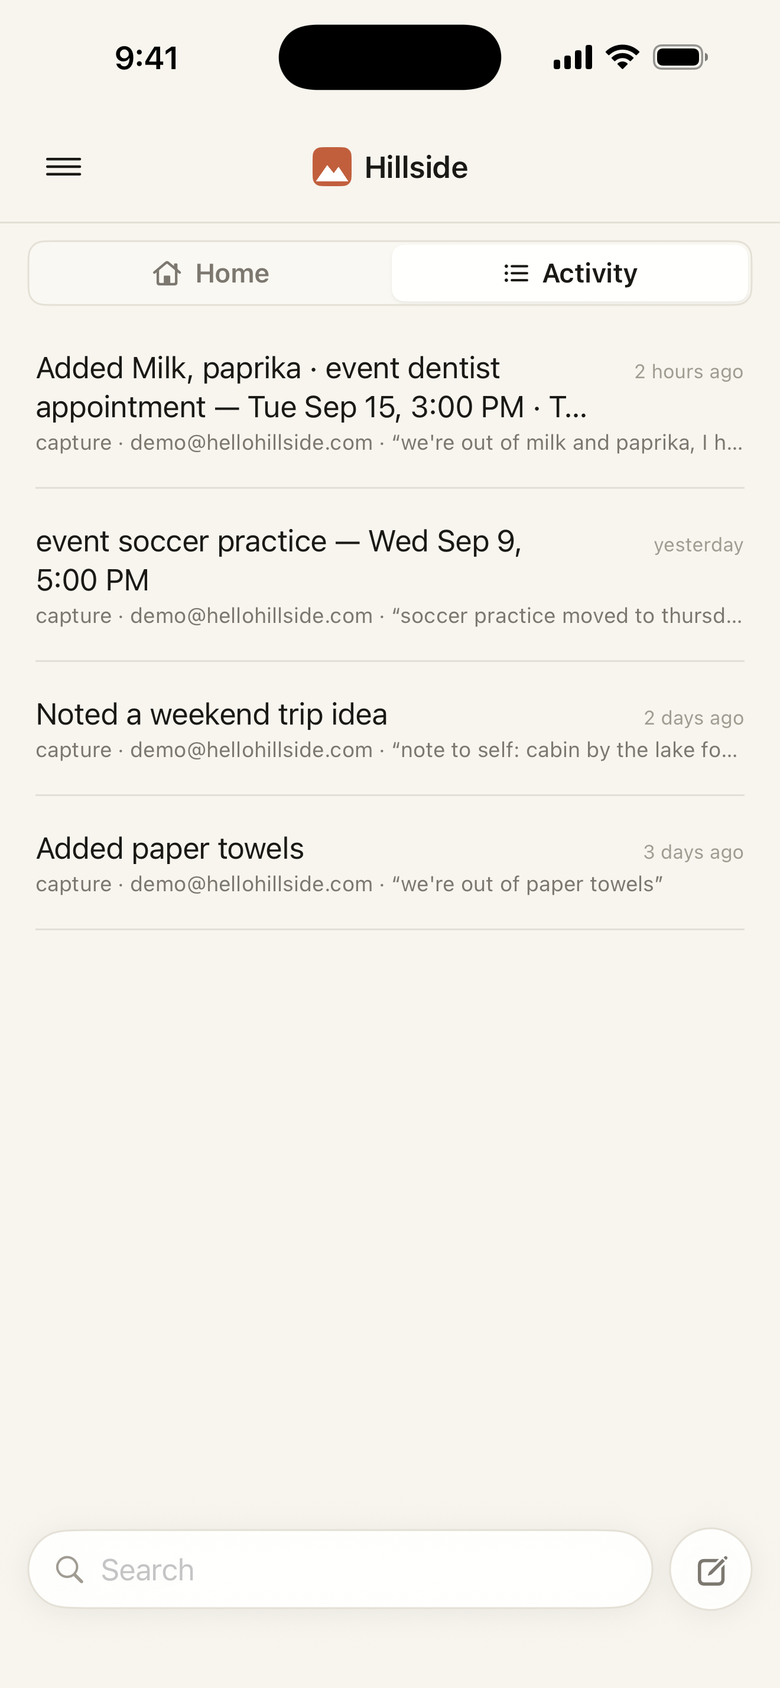
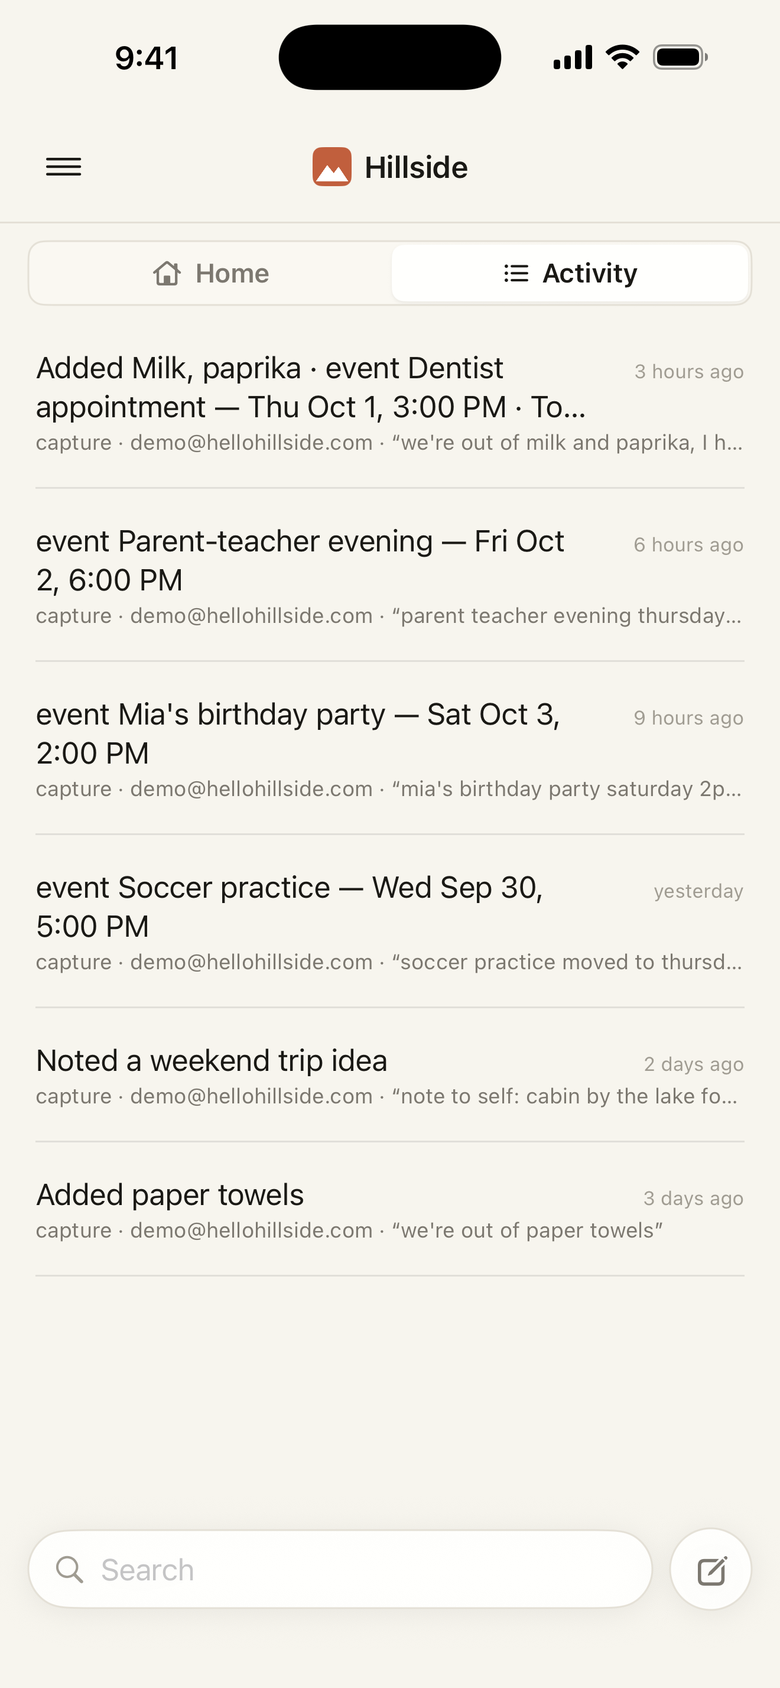
Reshoot for 1.3.3, and split one tile into three (#41)
The app's navigation changed under these shots. #119 split To-dos and Notes into
separate drawer entries and dropped the toggle between them, so `notes-todos.png`
showed a screen that no longer exists. Events became a destination of its own and
had never been photographed at all.

So that one tile is now three — To-dos, Notes, Events — and the gallery is ten.

Home is reshot for the Today card (#118): the next three days with to-dos and
events interleaved in time order, paged by day. It is the clearest thing the app
has gained since the last set, and the old Home shot predates it entirely.

All ten on **iOS 26.1 / iPhone 17 Pro Max**, 1.3.3 (6), against a demo reset from
clean main — 1320x2868 downscaled to the 780x1688 the markup already declares.

Three demo-data repairs were needed first, each of which would have shown:

- The dentist event read **Thu Oct 1** on Home and **Wed Oct 7** in Activity. The
  structured `parsed` envelope (migration 0051) is what the UI reads now, and
  `reanchor.sql` predates it — it shifts the label and the calendar URL but not
  `parsed`, so the two drift apart on every reset.
- Soccer practice disagreed the same way between Activity and Events.
- The capture's own text said "dentist appointment **tuesday** at 3" while the
  event was filed on Thursday, which reads as the app getting the day wrong
  rather than the demo data being stale.

Events needed seeding at all: there is no way to create one in the app
[…]

diff --git a/index.html b/index.html
@@ -189,9 +189,19 @@
           <figcaption>Open any line: see where it went, fix it in a tap.</figcaption>
         </figure>
         <figure class="shot">
-          <div class="device"><img src="screens/notes-todos.png" width="390" height="844" loading="lazy"
-               alt="Notes &amp; To-dos: notes and dated tasks together in one searchable list." /></div>
-          <figcaption>Notes and to-dos, together.</figcaption>
+          <div class="device"><img src="screens/todos.png" width="390" height="844" loading="lazy"
+               alt="To-dos, bucketed by when they are due: past due, today, then the rest of the week." /></div>
+          <figcaption>What's due, in the order it's due.</figcaption>
+        </figure>
+        <figure class="shot">
+          <div class="device"><img src="screens/notes.png" width="390" height="844" loading="lazy"
+               alt="Notes grouped by when they were last touched, one of them locked to the person who wrote it." /></div>
+          <figcaption>Everything the house wrote down.</figcaption>
+        </figure>
+        <figure class="shot">
+          <div class="device"><img src="screens/events.png" width="390" height="844" loading="lazy"
+               alt="Events Hillside picked up from what the household captured, grouped by day." /></div>
+          <figcaption>The dates you mentioned in passing.</figcaption>
         </figure>
         <figure class="shot">
           <div class="device"><img src="screens/shopping.png" width="390" height="844" loading="lazy"
